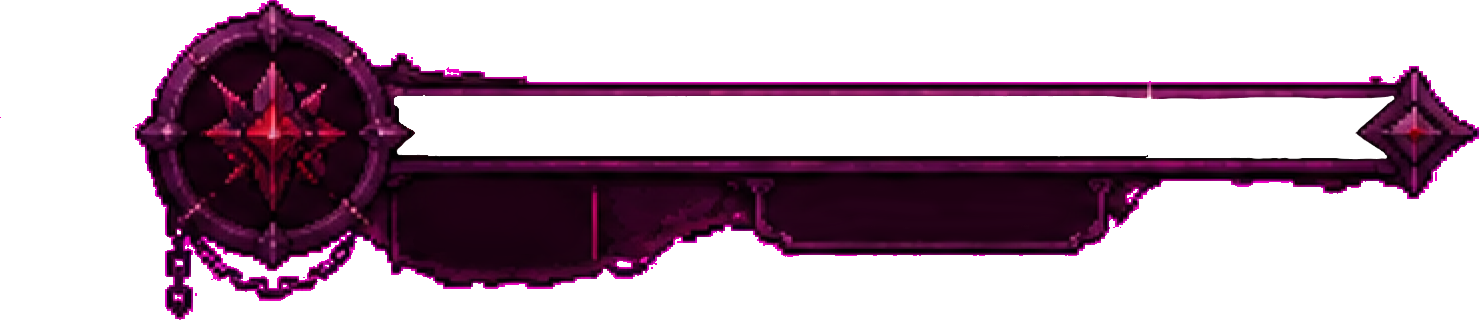
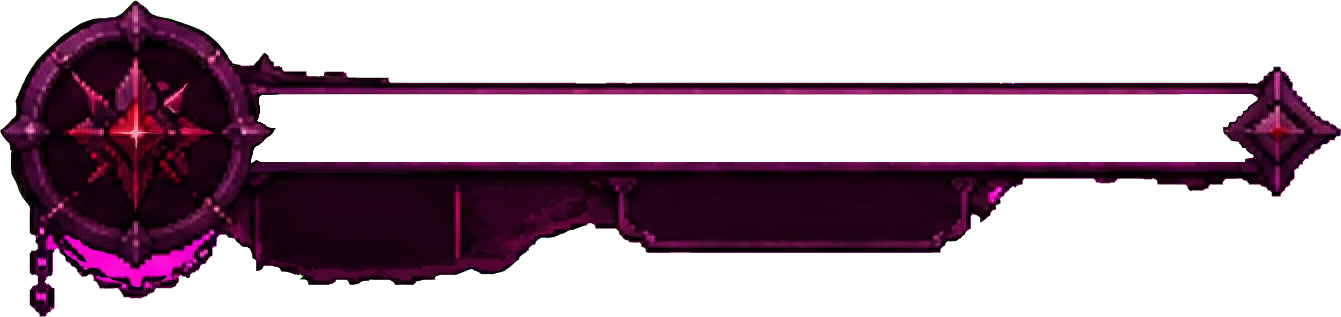
fix : 체력바 프레임을 새 에셋(체력바.png)으로 교체
배경과 게이지 창이 이미 투명으로 뚫려 있어 키잉 없이 내용 bbox만 잘라 썼다
(1341x317). 창 위치가 이전 프레임과 달라 CSS 비율도 다시 측정해 맞췄다 —
프레임 안쪽 구멍을 flood fill로 찾아 좌표를 뽑고, 합성 미리보기로 게이지가
창에 정확히 들어가는지 확인했다.

Changed region(s): [[0.0, 0.0, 1.0, 1.0]]

diff --git a/src/components/HUDOverlay.tsx b/src/components/HUDOverlay.tsx
@@ -80,13 +80,14 @@ const CombatHud = styled.div`
 `;
 
 /**
- * 제공받은 장식 프레임(체력ui.png → ui/hp-frame.png, 1479x320). 마젠타 배경과
- * 흰 게이지 창은 투명 처리했고, 창 위치는 원본에서 측정한 비율로 아래 HealthWindow가 잡는다.
+ * 제공받은 장식 프레임(체력바.png → ui/hp-frame.png, 1341x317).
+ * 배경도 게이지 창도 이미 투명으로 뚫려 있어 키잉 없이 내용 bbox만 잘라 쓴다.
+ * 창 위치는 프레임 안쪽 구멍의 실제 픽셀 좌표에서 환산했다(아래 HealthWindow).
  */
 const HealthBar = styled.div`
   position: relative;
   width: 440px;
-  aspect-ratio: 1479 / 320;
+  aspect-ratio: 1341 / 317;
 
   img {
     position: absolute;
@@ -98,13 +99,13 @@ const HealthBar = styled.div`
   }
 `;
 
-/** 프레임의 게이지 창 영역. 원본 픽셀 좌표(394~1393, 96~158)를 비율로 환산한 값이다. */
+/** 프레임의 게이지 창 영역. 잘라낸 프레임 기준 픽셀 좌표(251~1256, 94~162)를 비율로 환산했다. */
 const HealthWindow = styled.div`
   position: absolute;
-  left: 26.64%;
-  top: 30%;
-  width: 67.61%;
-  height: 19.69%;
+  left: 18.72%;
+  top: 29.65%;
+  width: 75.02%;
+  height: 21.77%;
   background: rgba(8, 6, 7, 0.78);
   overflow: hidden;
 `;
